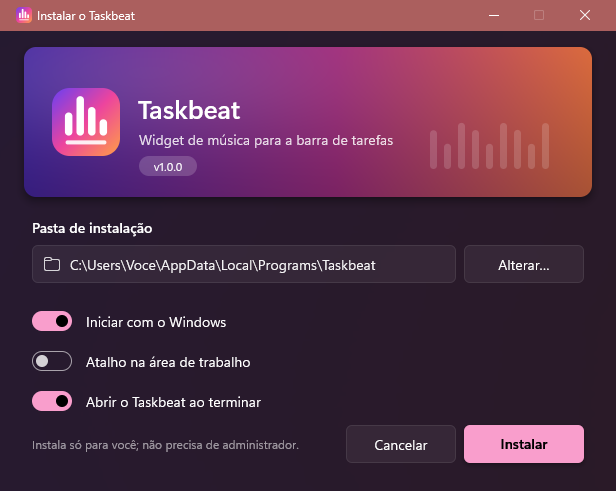
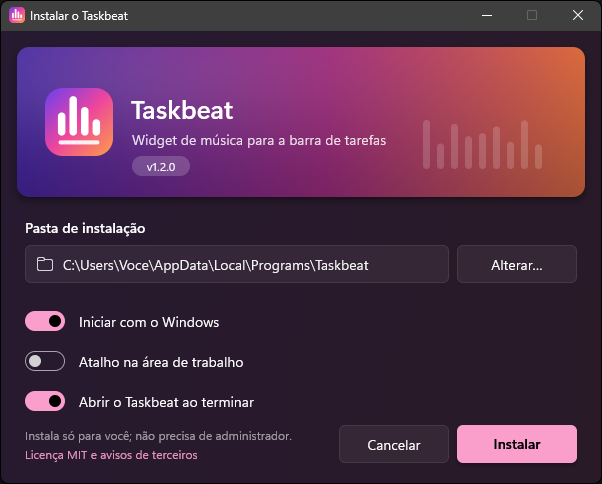
docs: capturas da versão 1.2.0
- Capturas e GIF gerados de novo com os padrões novos, os selos novos e o
  "A seguir" redesenhado.
- Variações do widget: só a música, o padrão (com os botões), pílula com
  aleatório e repetir, e reto e neutro com o play só no ícone.
- Tela de configurações (página da barra, com as opções novas) e instalador
  da 1.2.0.

diff --git a/src/shots.rs b/src/shots.rs
@@ -197,10 +197,12 @@ fn shots() {
     // ---- 2b. Widget da barra: tudo dentro do mesmo fundo, em algumas combinações
     {
         let variants = [
+            // Só a música; o padrão (com os botões); pílula com aleatório e
+            // repetir; reto, neutro, com o play só no ícone.
+            Config { taskbar_controls: false, playing_indicator: false, ..Config::default() },
             Config::default(),
-            Config { taskbar_controls: true, ..Config::default() },
-            Config { taskbar_controls: true, playing_indicator: true, widget_shape: WidgetShape::Pill, ..Config::default() },
-            Config { taskbar_controls: true, taskbar_shuffle_repeat: false, taskbar_play: TaskbarPlay::Icon, widget_shape: WidgetShape::Square, ..Config::default() },
+            Config { taskbar_shuffle_repeat: true, widget_divider: true, widget_shape: WidgetShape::Pill, ..Config::default() },
+            Config { taskbar_play: TaskbarPlay::Icon, widget_shape: WidgetShape::Square, widget_tint: WidgetTint::Neutral, ..Config::default() },
         ];
         let bar_h = 48.0 * S;
         let wh = 40.0 * S;

diff --git a/README.md b/README.md
@@ -23,7 +23,7 @@ Fluent do Windows 11 (referências: FluentFlyout, Fluent 2 e cards de "now playi
 botões (aleatório, anterior, play, próximo, repetir), em formato arredondado, pílula ou reto:
 
 <p align="center">
-  <img src="docs/screenshots/taskbar-widgets.png" width="420" alt="Quatro variações do widget da barra: só a música; com os botões; em pílula com indicador; reto com play só no ícone">
+  <img src="docs/screenshots/taskbar-widgets.png" width="420" alt="Quatro variações do widget da barra: só a música; com os botões (padrão); em pílula com aleatório e repetir; reto e neutro, com o play só no ícone">
 </p>
 
 **Card expandido** em três estilos: capa desfocada, cor do álbum e acrílico (desfoca o que está atrás).
